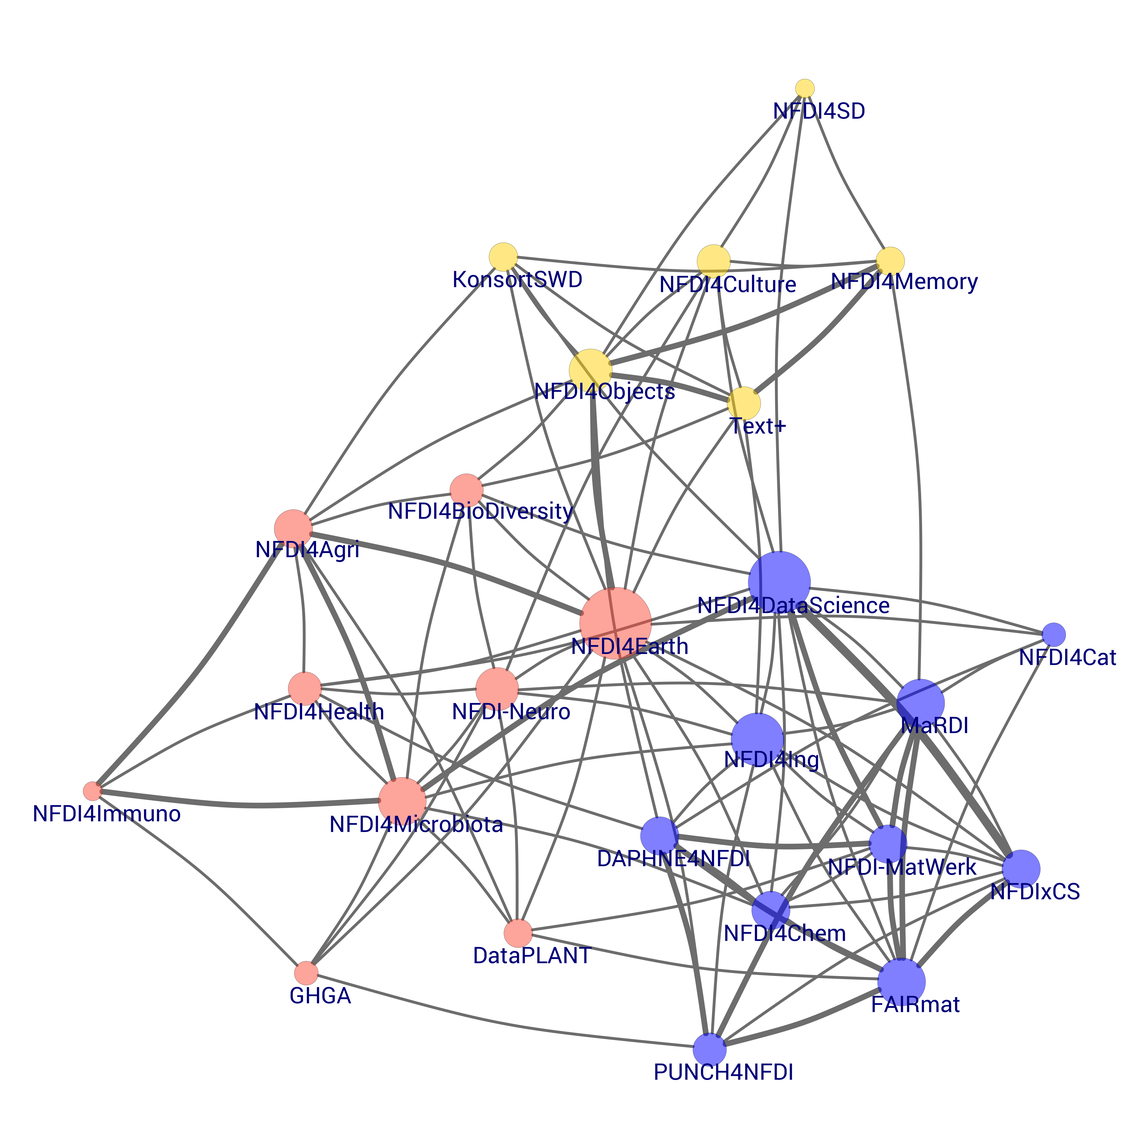
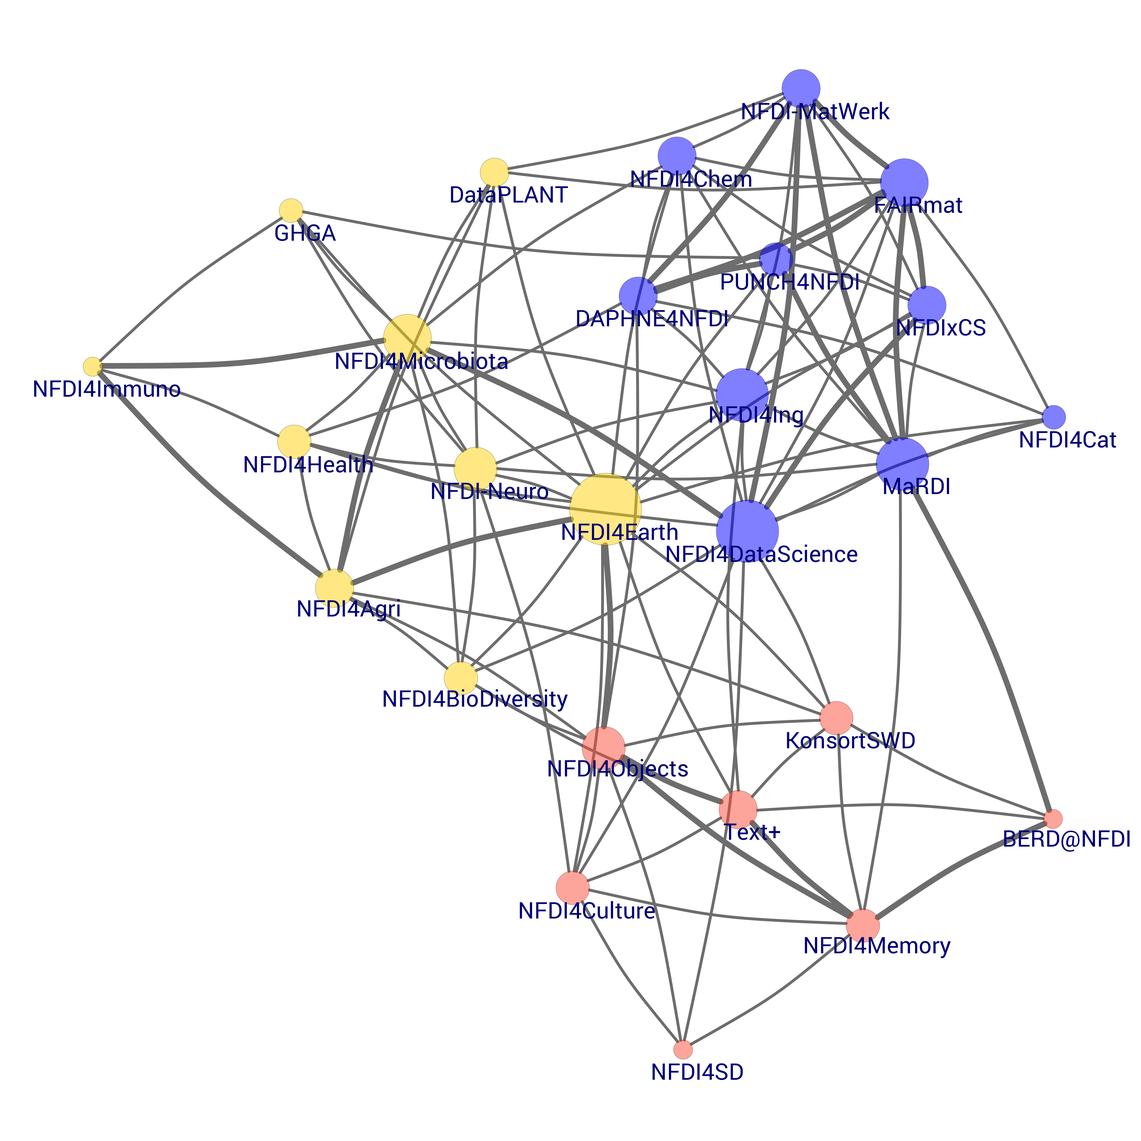
update files due to new consortia-data

diff --git a/2020/2020_nfdi_network_5.html b/2020/2020_nfdi_network_5.html
@@ -1211,11 +1211,11 @@ return function(){for(var n=0,e=0;e<t;++e)n+=Math.random();return n}},um=functio
 </head>
 <body style="background-color: white;">
 <div id="htmlwidget_container">
-<div id="htmlwidget-e8980251b4ee1bfbce5c" class="forceNetwork html-widget" style="width:960px;height:500px;">
+<div id="htmlwidget-466d62322b30683bf1b7" class="forceNetwork html-widget" style="width:960px;height:500px;">
 
 </div>
 </div>
-<script type="application/json" data-for="htmlwidget-e8980251b4ee1bfbce5c">{"x":{"links":{"source":[0,0,0,0,0,0,0,0,2,2,2,2,2,2,2,2,2,2,5,5,5,5,5,5,5,8,8,8,8,8,8,8,13,13,13,13,13,13,13,13,13,13,13,14,14,14,14,14,14,14,14,14,14,14,16,16,16,16,18,18,18,18,18,19,19,19,19,19,19,19,19,19,20,20,20,20,20,20,20,21,21,21,21,6,6,6,6,6,6,6,6,7,7,7,7,7,7,7,7,22,22,22,22,22,22,22,23,23,23,23,23,23,23,24,24,24,24,24,24,24],"target":[2,11,17,6,10,23,15,20,0,5,11,10,17,6,23,1,13,22,6,23,2,17,11,7,10,19,15,9,1,14,4,16,22,5,12,4,15,9,10,11,17,19,6,1,3,4,8,9,10,11,12,15,17,20,19,8,3,15,12,20,24,5,4,1,3,8,9,11,13,15,16,17,24,18,12,4,9,14,8,18,20,12,13,17,22,13,2,11,0,1,5,15,17,1,12,3,19,9,14,17,5,13,2,11,14,13,2,0,14,5,22,3,17,12,18,20,4,17,14,9],"value":[1,1,1,1,1,1,1,1,1,1,1,1,1,1,1,1,1,1,1,1,1,1,1,1,1,1,1,1,1,1,1,1,1,1,1,1,1,1,1,1,1,1,1,1,1,1,1,1,1,1,1,1,1,1,1,1,1,1,1,1,1,1,1,1,1,1,1,1,1,1,1,1,1,1,1,1,1,1,1,1,1,1,1,1,1,1,1,1,1,1,1,1,1,1,1,1,1,1,1,1,1,1,1,1,1,1,1,1,1,1,1,1,1,1,1,1,1,1,1,1],"colour":["#808080","#808080","#808080","#808080","#808080","#808080","#808080","#808080","#808080","#808080","#808080","#808080","#808080","#808080","#808080","#808080","#808080","#808080","#808080","#808080","#808080","#808080","#808080","#808080","#808080","#808080","#808080","#808080","#808080","#808080","#808080","#808080","#808080","#808080","#808080","#808080","#808080","#808080","#808080","#808080","#808080","#808080","#808080","#808080","#808080","#808080","#808080","#808080","#808080","#808080","#808080","#808080","#808080","#808080","#808080","#808080","#808080","#808080","#808080","#808080","#808080","#808080","#808080","#808080","#808080","#808080","#808080","#808080","#808080","#808080","#808080","#808080","#808080","#808080","#808080","#808080","#808080","#808080","#808080","#808080","#808080","#808080","#808080","#808080","#808080","#808080","#808080","#808080","#808080","#808080","#808080","#808080","#808080","#808080","#808080","#808080","#808080","#808080","#808080","#808080","#808080","#808080","#808080","#808080","#808080","#808080","#808080","#808080","#808080","#808080","#808080","#808080","#808080","#808080","#808080","#808080","#808080","#808080","#808080","#808080"]},"nodes":{"name":["DAPHNE4NFDI","DataPLANT","FAIRmat","GHGA","KonsortSWD","MaRDI","NFDI-MatWerk","NFDI-Neuro","NFDI4Agri","NFDI4BioDiversity","NFDI4Cat","NFDI4Chem","NFDI4Culture","NFDI4DataScience","NFDI4Earth","NFDI4Health","NFDI4Immuno","NFDI4Ing","NFDI4Memory","NFDI4Microbiota","NFDI4Objects","NFDI4SD","NFDIxCS","PUNCH4NFDI","Text+"],"group":[1,1,1,1,1,1,1,1,1,1,1,1,1,1,1,1,1,1,1,1,1,1,1,1,1],"nodesize":[8,8,8,8,8,8,8,8,8,8,8,8,8,8,8,8,8,8,8,8,8,8,8,8,8]},"options":{"NodeID":"name","Group":"group","colourScale":"d3.scaleOrdinal(['#435FAC'])","fontSize":7,"fontFamily":"Roboto","clickTextSize":17.5,"linkDistance":50,"linkWidth":"'1.5px'.toString()","charge":-300,"opacity":1,"zoom":true,"legend":false,"arrows":false,"nodesize":true,"radiusCalculation":"d.nodesize","bounded":false,"opacityNoHover":1,"clickAction":null}},"evals":[],"jsHooks":[]}</script>
-<script type="application/htmlwidget-sizing" data-for="htmlwidget-e8980251b4ee1bfbce5c">{"viewer":{"width":450,"height":350,"padding":10,"fill":true},"browser":{"width":960,"height":500,"padding":10,"fill":true}}</script>
+<script type="application/json" data-for="htmlwidget-466d62322b30683bf1b7">{"x":{"links":{"source":[1,1,1,1,1,1,1,1,3,3,3,3,3,3,3,3,3,3,6,6,6,6,6,6,6,9,9,9,9,9,9,9,14,14,14,14,14,14,14,14,14,14,14,15,15,15,15,15,15,15,15,15,15,15,17,17,17,17,19,19,19,19,19,20,20,20,20,20,20,20,20,20,21,21,21,21,21,21,21,22,22,22,22,7,7,7,7,7,7,7,7,8,8,8,8,8,8,8,8,23,23,23,23,23,23,24,24,24,24,24,24,24,25,25,25,25,25,25,25,0,0,0,0,6,19],"target":[3,12,18,7,11,24,16,21,1,6,12,11,18,7,24,2,14,23,7,24,3,18,12,8,11,20,16,10,2,15,5,17,23,6,13,5,16,10,11,12,18,20,7,2,4,5,9,10,11,12,13,16,18,21,20,9,4,16,13,21,25,6,5,2,4,9,10,12,14,16,17,18,25,19,13,5,10,15,9,19,21,13,14,18,23,14,3,12,1,2,6,16,18,2,13,4,20,10,15,18,6,14,3,12,15,3,1,15,6,23,4,18,13,19,21,5,18,15,10,5,19,6,25,0,0],"value":[1,1,1,1,1,1,1,1,1,1,1,1,1,1,1,1,1,1,1,1,1,1,1,1,1,1,1,1,1,1,1,1,1,1,1,1,1,1,1,1,1,1,1,1,1,1,1,1,1,1,1,1,1,1,1,1,1,1,1,1,1,1,1,1,1,1,1,1,1,1,1,1,1,1,1,1,1,1,1,1,1,1,1,1,1,1,1,1,1,1,1,1,1,1,1,1,1,1,1,1,1,1,1,1,1,1,1,1,1,1,1,1,1,1,1,1,1,1,1,1,1,1,1,1,1],"colour":["#808080","#808080","#808080","#808080","#808080","#808080","#808080","#808080","#808080","#808080","#808080","#808080","#808080","#808080","#808080","#808080","#808080","#808080","#808080","#808080","#808080","#808080","#808080","#808080","#808080","#808080","#808080","#808080","#808080","#808080","#808080","#808080","#808080","#808080","#808080","#808080","#808080","#808080","#808080","#808080","#808080","#808080","#808080","#808080","#808080","#808080","#808080","#808080","#808080","#808080","#808080","#808080","#808080","#808080","#808080","#808080","#808080","#808080","#808080","#808080","#808080","#808080","#808080","#808080","#808080","#808080","#808080","#808080","#808080","#808080","#808080","#808080","#808080","#808080","#808080","#808080","#808080","#808080","#808080","#808080","#808080","#808080","#808080","#808080","#808080","#808080","#808080","#808080","#808080","#808080","#808080","#808080","#808080","#808080","#808080","#808080","#808080","#808080","#808080","#808080","#808080","#808080","#808080","#808080","#808080","#808080","#808080","#808080","#808080","#808080","#808080","#808080","#808080","#808080","#808080","#808080","#808080","#808080","#808080","#808080","#808080","#808080","#808080","#808080","#808080"]},"nodes":{"name":["BERD@NFDI","DAPHNE4NFDI","DataPLANT","FAIRmat","GHGA","KonsortSWD","MaRDI","NFDI-MatWerk","NFDI-Neuro","NFDI4Agri","NFDI4BioDiversity","NFDI4Cat","NFDI4Chem","NFDI4Culture","NFDI4DataScience","NFDI4Earth","NFDI4Health","NFDI4Immuno","NFDI4Ing","NFDI4Memory","NFDI4Microbiota","NFDI4Objects","NFDI4SD","NFDIxCS","PUNCH4NFDI","Text+"],"group":[1,1,1,1,1,1,1,1,1,1,1,1,1,1,1,1,1,1,1,1,1,1,1,1,1,1],"nodesize":[8,8,8,8,8,8,8,8,8,8,8,8,8,8,8,8,8,8,8,8,8,8,8,8,8,8]},"options":{"NodeID":"name","Group":"group","colourScale":"d3.scaleOrdinal(['#435FAC'])","fontSize":7,"fontFamily":"Roboto","clickTextSize":17.5,"linkDistance":50,"linkWidth":"'1.5px'.toString()","charge":-300,"opacity":1,"zoom":true,"legend":false,"arrows":false,"nodesize":true,"radiusCalculation":"d.nodesize","bounded":false,"opacityNoHover":1,"clickAction":null}},"evals":[],"jsHooks":[]}</script>
+<script type="application/htmlwidget-sizing" data-for="htmlwidget-466d62322b30683bf1b7">{"viewer":{"width":450,"height":350,"padding":10,"fill":true},"browser":{"width":960,"height":500,"padding":10,"fill":true}}</script>
 </body>
 </html>

diff --git a/2019/2019_nfdi_network_5.html b/2019/2019_nfdi_network_5.html
@@ -1211,11 +1211,11 @@ return function(){for(var n=0,e=0;e<t;++e)n+=Math.random();return n}},um=functio
 </head>
 <body style="background-color: white;">
 <div id="htmlwidget_container">
-<div id="htmlwidget-cf02e40c0bc09d32bb5e" class="forceNetwork html-widget" style="width:960px;height:500px;">
+<div id="htmlwidget-e05259a22a001c4d9545" class="forceNetwork html-widget" style="width:960px;height:500px;">
 
 </div>
 </div>
-<script type="application/json" data-for="htmlwidget-cf02e40c0bc09d32bb5e">{"x":{"links":{"source":[0,0,0,1,1,1,2,2,2,2,2,2,2,3,3,3,4,4,4,4,4,4,5,5,5,5,5,6,6,7,7,7,7,7,8,8,8,8,8,8,9,9,9,9,9,10,10,10,10,10,10,10,10,11,11,11,11,12,12,12,12,12,12,12,13,13,13,14,14,14,15,15,15,15,15,16,16,16,16,16,16,16,17,17,17,17,17,17,17,17,17,18,18,18,18,18,18,18,19,19,19,20,20,20,20,20,22,22,22,22,22],"target":[21,2,15,7,5,22,4,12,17,20,11,21,0,10,9,12,2,8,12,11,17,20,18,7,1,14,22,18,16,1,10,15,16,22,20,21,4,17,12,14,16,3,10,7,15,15,9,12,16,7,13,3,18,4,12,17,2,4,17,11,2,21,16,10,10,18,22,22,8,17,0,7,9,10,17,18,6,7,12,9,15,10,20,4,19,12,15,8,18,22,14,6,16,17,13,5,7,9,17,5,15,4,17,8,12,2,14,7,17,15,10],"value":[1,1,1,1,1,1,1,1,1,1,1,1,1,1,1,1,1,1,1,1,1,1,1,1,1,1,1,1,1,1,1,1,1,1,1,1,1,1,1,1,1,1,1,1,1,1,1,1,1,1,1,1,1,1,1,1,1,1,1,1,1,1,1,1,1,1,1,1,1,1,1,1,1,1,1,1,1,1,1,1,1,1,1,1,1,1,1,1,1,1,1,1,1,1,1,1,1,1,1,1,1,1,1,1,1,1,1,1,1,1,1],"colour":["#808080","#808080","#808080","#808080","#808080","#808080","#808080","#808080","#808080","#808080","#808080","#808080","#808080","#808080","#808080","#808080","#808080","#808080","#808080","#808080","#808080","#808080","#808080","#808080","#808080","#808080","#808080","#808080","#808080","#808080","#808080","#808080","#808080","#808080","#808080","#808080","#808080","#808080","#808080","#808080","#808080","#808080","#808080","#808080","#808080","#808080","#808080","#808080","#808080","#808080","#808080","#808080","#808080","#808080","#808080","#808080","#808080","#808080","#808080","#808080","#808080","#808080","#808080","#808080","#808080","#808080","#808080","#808080","#808080","#808080","#808080","#808080","#808080","#808080","#808080","#808080","#808080","#808080","#808080","#808080","#808080","#808080","#808080","#808080","#808080","#808080","#808080","#808080","#808080","#808080","#808080","#808080","#808080","#808080","#808080","#808080","#808080","#808080","#808080","#808080","#808080","#808080","#808080","#808080","#808080","#808080","#808080","#808080","#808080","#808080","#808080"]},"nodes":{"name":["Astro-NFDI","BERD@NFDI","DAPHNE","DataPLANT","FAIRmat","ForumX","GHGA","KonsortSWD","MaRDI","NFDI4Agri","NFDI4BioDiversity","NFDI4cat","NFDI4Chem","NFDI4Crime","NFDI4Culture","NFDI4Earth","NFDI4Health","NFDI4Ing","NFDI4Medicine","NFDI4MobilTech","NFDI4MSE","PAHN-PaN","Text+"],"group":[1,1,1,1,1,1,1,1,1,1,1,1,1,1,1,1,1,1,1,1,1,1,1],"nodesize":[8,8,8,8,8,8,8,8,8,8,8,8,8,8,8,8,8,8,8,8,8,8,8]},"options":{"NodeID":"name","Group":"group","colourScale":"d3.scaleOrdinal(['#435FAC'])","fontSize":7,"fontFamily":"Roboto","clickTextSize":17.5,"linkDistance":50,"linkWidth":"'1.5px'.toString()","charge":-300,"opacity":1,"zoom":true,"legend":false,"arrows":false,"nodesize":true,"radiusCalculation":"d.nodesize","bounded":false,"opacityNoHover":1,"clickAction":null}},"evals":[],"jsHooks":[]}</script>
-<script type="application/htmlwidget-sizing" data-for="htmlwidget-cf02e40c0bc09d32bb5e">{"viewer":{"width":450,"height":350,"padding":10,"fill":true},"browser":{"width":960,"height":500,"padding":10,"fill":true}}</script>
+<script type="application/json" data-for="htmlwidget-e05259a22a001c4d9545">{"x":{"links":{"source":[0,0,0,1,1,1,2,2,2,2,2,2,2,3,3,3,4,4,4,4,4,4,5,5,5,5,5,6,6,7,7,7,7,7,8,8,8,8,8,8,9,9,9,9,9,10,10,10,10,10,10,10,10,11,11,11,11,12,12,12,12,12,12,12,13,13,13,14,14,14,15,15,15,15,15,16,16,16,16,16,16,16,17,17,17,17,17,17,17,17,17,18,18,18,18,18,18,18,19,19,19,20,20,20,20,20,22,22,22,22,22],"target":[21,2,15,7,5,22,4,12,17,20,11,21,0,10,9,12,2,8,12,11,17,20,18,7,1,14,22,18,16,1,10,15,16,22,20,21,4,17,12,14,16,3,10,7,15,15,9,12,16,7,13,3,18,4,12,17,2,4,17,11,2,21,16,10,10,18,22,22,8,17,0,7,9,10,17,18,6,7,12,9,15,10,20,4,19,12,15,8,18,22,14,6,16,17,13,5,7,9,17,5,15,4,17,8,12,2,14,7,17,15,10],"value":[1,1,1,1,1,1,1,1,1,1,1,1,1,1,1,1,1,1,1,1,1,1,1,1,1,1,1,1,1,1,1,1,1,1,1,1,1,1,1,1,1,1,1,1,1,1,1,1,1,1,1,1,1,1,1,1,1,1,1,1,1,1,1,1,1,1,1,1,1,1,1,1,1,1,1,1,1,1,1,1,1,1,1,1,1,1,1,1,1,1,1,1,1,1,1,1,1,1,1,1,1,1,1,1,1,1,1,1,1,1,1],"colour":["#808080","#808080","#808080","#808080","#808080","#808080","#808080","#808080","#808080","#808080","#808080","#808080","#808080","#808080","#808080","#808080","#808080","#808080","#808080","#808080","#808080","#808080","#808080","#808080","#808080","#808080","#808080","#808080","#808080","#808080","#808080","#808080","#808080","#808080","#808080","#808080","#808080","#808080","#808080","#808080","#808080","#808080","#808080","#808080","#808080","#808080","#808080","#808080","#808080","#808080","#808080","#808080","#808080","#808080","#808080","#808080","#808080","#808080","#808080","#808080","#808080","#808080","#808080","#808080","#808080","#808080","#808080","#808080","#808080","#808080","#808080","#808080","#808080","#808080","#808080","#808080","#808080","#808080","#808080","#808080","#808080","#808080","#808080","#808080","#808080","#808080","#808080","#808080","#808080","#808080","#808080","#808080","#808080","#808080","#808080","#808080","#808080","#808080","#808080","#808080","#808080","#808080","#808080","#808080","#808080","#808080","#808080","#808080","#808080","#808080","#808080"]},"nodes":{"name":["Astro-NFDI","BERD@NFDI","DAPHNE","DataPLANT","FAIRmat","ForumX","GHGA","KonsortSWD","MaRDI","NFDI4Agri","NFDI4BioDiversity","NFDI4cat","NFDI4Chem","NFDI4Crime","NFDI4Culture","NFDI4Earth","NFDI4Health","NFDI4Ing","NFDI4Medicine","NFDI4MobilTech","NFDI4MSE","PAHN-PaN","Text+"],"group":[1,1,1,1,1,1,1,1,1,1,1,1,1,1,1,1,1,1,1,1,1,1,1],"nodesize":[8,8,8,8,8,8,8,8,8,8,8,8,8,8,8,8,8,8,8,8,8,8,8]},"options":{"NodeID":"name","Group":"group","colourScale":"d3.scaleOrdinal(['#435FAC'])","fontSize":7,"fontFamily":"Roboto","clickTextSize":17.5,"linkDistance":50,"linkWidth":"'1.5px'.toString()","charge":-300,"opacity":1,"zoom":true,"legend":false,"arrows":false,"nodesize":true,"radiusCalculation":"d.nodesize","bounded":false,"opacityNoHover":1,"clickAction":null}},"evals":[],"jsHooks":[]}</script>
+<script type="application/htmlwidget-sizing" data-for="htmlwidget-e05259a22a001c4d9545">{"viewer":{"width":450,"height":350,"padding":10,"fill":true},"browser":{"width":960,"height":500,"padding":10,"fill":true}}</script>
 </body>
 </html>

diff --git a/2020/2020_nfdi_network_4.html b/2020/2020_nfdi_network_4.html
@@ -1624,11 +1624,11 @@ pointer-events: none;
 </head>
 <body style="background-color: white;">
 <div id="htmlwidget_container">
-<div id="htmlwidget-a42e37c5f68f09c6fec8" class="chorddiag html-widget" style="width:960px;height:500px;">
+<div id="htmlwidget-1b73e8243cad70c255e2" class="chorddiag html-widget" style="width:960px;height:500px;">
 
 </div>
 </div>
-<script type="application/json" data-for="htmlwidget-a42e37c5f68f09c6fec8">{"x":{"matrix":[[0,2,0,0,0,0,0,0,0,1,0,2,0,0,2,0,1,1,1,1,0,0,0,0,0],[2,0,2,0,1,0,0,0,0,0,0,2,0,2,2,0,1,1,1,0,1,0,0,0,0],[0,2,0,0,1,0,0,1,0,0,0,2,1,1,2,0,1,1,1,0,0,0,0,0,0],[0,0,0,0,0,2,2,0,2,1,0,0,0,0,0,0,0,0,0,1,1,1,1,0,0],[0,1,1,0,0,0,0,0,2,0,1,2,0,3,0,0,1,1,1,1,0,1,1,1,0],[0,0,0,2,0,0,0,0,0,2,0,0,1,1,1,1,1,1,1,1,1,1,1,1,1],[0,0,0,2,0,0,0,0,2,0,0,0,0,0,0,0,0,0,0,1,0,0,0,0,1],[0,0,1,0,0,0,0,0,0,2,1,0,0,0,0,2,0,0,0,0,0,0,1,1,0],[0,0,0,2,2,0,2,0,0,0,0,0,1,0,0,0,1,1,0,1,1,1,0,0,1],[1,0,0,1,0,2,0,2,0,0,1,0,0,0,0,2,0,0,0,0,0,1,1,1,0],[0,0,0,0,1,0,0,1,0,1,0,0,0,0,0,0,0,0,0,0,0,0,0,1,0],[2,2,2,0,2,0,0,0,0,0,0,0,0,1,0,0,1,1,0,0,1,0,0,0,0],[0,0,1,0,0,1,0,0,1,0,0,0,0,0,0,0,0,1,0,1,1,1,0,1,1],[0,2,1,0,3,1,0,0,0,0,0,1,0,0,1,0,1,1,0,0,0,0,0,0,0],[2,2,2,0,0,1,0,0,0,0,0,0,0,1,0,0,0,1,0,0,0,0,0,0,1],[0,0,0,0,0,1,0,2,0,2,0,0,0,0,0,0,0,1,0,0,0,1,1,1,0],[1,1,1,0,1,1,0,0,1,0,0,1,0,1,0,0,0,0,0,0,0,0,0,0,0],[1,1,1,0,1,1,0,0,1,0,0,1,1,1,1,1,0,0,0,0,0,0,0,0,0],[1,1,1,0,1,1,0,0,0,0,0,0,0,0,0,0,0,0,0,0,0,0,0,0,0],[1,0,0,1,1,1,1,0,1,0,0,0,1,0,0,0,0,0,0,0,0,0,0,0,0],[0,1,0,1,0,1,0,0,1,0,0,1,1,0,0,0,0,0,0,0,0,0,0,0,0],[0,0,0,1,1,1,0,0,1,1,0,0,1,0,0,1,0,0,0,0,0,0,0,0,0],[0,0,0,1,1,1,0,1,0,1,0,0,0,0,0,1,0,0,0,0,0,0,0,0,0],[0,0,0,0,1,1,0,1,0,1,1,0,1,0,0,1,0,0,0,0,0,0,0,0,0],[0,0,0,0,0,1,1,0,1,0,0,0,1,0,1,0,0,0,0,0,0,0,0,0,0]],"options":{"type":"directional","width":null,"height":null,"margin":120,"showGroupnames":true,"groupNames":["DAPHNE4NFDI","FAIRmat","MaRDI","NFDI4Agri","NFDI4DataScience","NFDI4Earth","NFDI4Immuno","NFDI4Memory","NFDI4Microbiota","NFDI4Objects","NFDI4SD","NFDI-MatWerk","NFDI-Neuro","NFDIxCS","PUNCH4NFDI","Text+","NFDI4Chem","NFDI4Ing","NFDI4Cat","NFDI4Health","DataPLANT","NFDI4BioDiversity","KonsortSWD","NFDI4Culture","GHGA"],"groupColors":["#435FAC","#AEC3FD"],"groupThickness":0.1,"groupPadding":0.0174532925199433,"groupnamePadding":[20,20,20,20,20,20,20,20,20,20,20,20,20,20,20,20,20,20,20,20,20,20,20,20,20],"groupnameFontsize":18,"groupedgeColor":null,"chordedgeColor":"#808080","categoryNames":null,"categorynamePadding":100,"categorynameFontsize":18,"showTicks":false,"tickInterval":1,"ticklabelFontsize":10,"fadeLevel":0.1,"showTooltips":true,"showZeroTooltips":true,"tooltipNames":["DAPHNE4NFDI","FAIRmat","MaRDI","NFDI4Agri","NFDI4DataScience","NFDI4Earth","NFDI4Immuno","NFDI4Memory","NFDI4Microbiota","NFDI4Objects","NFDI4SD","NFDI-MatWerk","NFDI-Neuro","NFDIxCS","PUNCH4NFDI","Text+","NFDI4Chem","NFDI4Ing","NFDI4Cat","NFDI4Health","DataPLANT","NFDI4BioDiversity","KonsortSWD","NFDI4Culture","GHGA"],"tooltipFontsize":20,"tooltipUnit":"","tooltipGroupConnector":" <> ","precision":2,"clickAction":null,"clickGroupAction":null}},"evals":[],"jsHooks":[]}</script>
-<script type="application/htmlwidget-sizing" data-for="htmlwidget-a42e37c5f68f09c6fec8">{"viewer":{"width":450,"height":350,"padding":0,"fill":true},"browser":{"width":960,"height":500,"padding":0,"fill":true}}</script>
+<script type="application/json" data-for="htmlwidget-1b73e8243cad70c255e2">{"x":{"matrix":[[0,2,0,0,0,0,0,0,0,1,0,2,0,0,2,0,0,1,1,1,1,0,0,0,0,0],[2,0,2,0,1,0,0,0,0,0,0,2,0,2,2,0,0,1,1,1,0,1,0,0,0,0],[0,2,0,0,1,0,0,1,0,0,0,2,1,1,2,0,2,1,1,1,0,0,0,0,0,0],[0,0,0,0,0,2,2,0,2,1,0,0,0,0,0,0,0,0,0,0,1,1,1,1,0,0],[0,1,1,0,0,0,0,0,2,0,1,2,0,2,0,0,0,1,1,1,1,0,1,1,1,0],[0,0,0,2,0,0,0,0,0,2,0,0,1,1,1,1,0,1,1,1,1,1,1,1,1,1],[0,0,0,2,0,0,0,0,2,0,0,0,0,0,0,0,0,0,0,0,1,0,0,0,0,1],[0,0,1,0,0,0,0,0,0,2,1,0,0,0,0,2,2,0,0,0,0,0,0,1,1,0],[0,0,0,2,2,0,2,0,0,0,0,0,1,0,0,0,0,1,1,0,1,1,1,0,0,1],[1,0,0,1,0,2,0,2,0,0,1,0,0,0,0,2,0,0,0,0,0,0,1,1,1,0],[0,0,0,0,1,0,0,1,0,1,0,0,0,0,0,0,0,0,0,0,0,0,0,0,1,0],[2,2,2,0,2,0,0,0,0,0,0,0,0,1,0,0,0,1,1,0,0,1,0,0,0,0],[0,0,1,0,0,1,0,0,1,0,0,0,0,0,0,0,0,0,1,0,1,1,1,0,1,1],[0,2,1,0,2,1,0,0,0,0,0,1,0,0,1,0,0,1,1,0,0,0,0,0,0,0],[2,2,2,0,0,1,0,0,0,0,0,0,0,1,0,0,0,0,1,0,0,0,0,0,0,1],[0,0,0,0,0,1,0,2,0,2,0,0,0,0,0,0,1,0,1,0,0,0,1,1,1,0],[0,0,2,0,0,0,0,2,0,0,0,0,0,0,0,1,0,0,0,0,0,0,0,1,0,0],[1,1,1,0,1,1,0,0,1,0,0,1,0,1,0,0,0,0,0,0,0,0,0,0,0,0],[1,1,1,0,1,1,0,0,1,0,0,1,1,1,1,1,0,0,0,0,0,0,0,0,0,0],[1,1,1,0,1,1,0,0,0,0,0,0,0,0,0,0,0,0,0,0,0,0,0,0,0,0],[1,0,0,1,1,1,1,0,1,0,0,0,1,0,0,0,0,0,0,0,0,0,0,0,0,0],[0,1,0,1,0,1,0,0,1,0,0,1,1,0,0,0,0,0,0,0,0,0,0,0,0,0],[0,0,0,1,1,1,0,0,1,1,0,0,1,0,0,1,0,0,0,0,0,0,0,0,0,0],[0,0,0,1,1,1,0,1,0,1,0,0,0,0,0,1,1,0,0,0,0,0,0,0,0,0],[0,0,0,0,1,1,0,1,0,1,1,0,1,0,0,1,0,0,0,0,0,0,0,0,0,0],[0,0,0,0,0,1,1,0,1,0,0,0,1,0,1,0,0,0,0,0,0,0,0,0,0,0]],"options":{"type":"directional","width":null,"height":null,"margin":120,"showGroupnames":true,"groupNames":["DAPHNE4NFDI","FAIRmat","MaRDI","NFDI4Agri","NFDI4DataScience","NFDI4Earth","NFDI4Immuno","NFDI4Memory","NFDI4Microbiota","NFDI4Objects","NFDI4SD","NFDI-MatWerk","NFDI-Neuro","NFDIxCS","PUNCH4NFDI","Text+","BERD@NFDI","NFDI4Chem","NFDI4Ing","NFDI4Cat","NFDI4Health","DataPLANT","NFDI4BioDiversity","KonsortSWD","NFDI4Culture","GHGA"],"groupColors":["#435FAC","#AEC3FD"],"groupThickness":0.1,"groupPadding":0.0174532925199433,"groupnamePadding":[20,20,20,20,20,20,20,20,20,20,20,20,20,20,20,20,20,20,20,20,20,20,20,20,20,20],"groupnameFontsize":18,"groupedgeColor":null,"chordedgeColor":"#808080","categoryNames":null,"categorynamePadding":100,"categorynameFontsize":18,"showTicks":false,"tickInterval":1,"ticklabelFontsize":10,"fadeLevel":0.1,"showTooltips":true,"showZeroTooltips":true,"tooltipNames":["DAPHNE4NFDI","FAIRmat","MaRDI","NFDI4Agri","NFDI4DataScience","NFDI4Earth","NFDI4Immuno","NFDI4Memory","NFDI4Microbiota","NFDI4Objects","NFDI4SD","NFDI-MatWerk","NFDI-Neuro","NFDIxCS","PUNCH4NFDI","Text+","BERD@NFDI","NFDI4Chem","NFDI4Ing","NFDI4Cat","NFDI4Health","DataPLANT","NFDI4BioDiversity","KonsortSWD","NFDI4Culture","GHGA"],"tooltipFontsize":20,"tooltipUnit":"","tooltipGroupConnector":" <> ","precision":2,"clickAction":null,"clickGroupAction":null}},"evals":[],"jsHooks":[]}</script>
+<script type="application/htmlwidget-sizing" data-for="htmlwidget-1b73e8243cad70c255e2">{"viewer":{"width":450,"height":350,"padding":0,"fill":true},"browser":{"width":960,"height":500,"padding":0,"fill":true}}</script>
 </body>
 </html>

diff --git a/2019/2019_nfdi_network_4.html b/2019/2019_nfdi_network_4.html
@@ -1624,11 +1624,11 @@ pointer-events: none;
 </head>
 <body style="background-color: white;">
 <div id="htmlwidget_container">
-<div id="htmlwidget-3c730090a01b019e877e" class="chorddiag html-widget" style="width:960px;height:500px;">
+<div id="htmlwidget-2ff4cbfe2617b4dbd527" class="chorddiag html-widget" style="width:960px;height:500px;">
 
 </div>
 </div>
-<script type="application/json" data-for="htmlwidget-3c730090a01b019e877e">{"x":{"matrix":[[0,0,2,0,0,0,0,0,0,0,0,0,0,0,0,2,0,0,0,0,0,0,1],[0,0,0,0,0,2,0,2,0,0,0,0,0,0,0,0,0,0,0,0,0,1,0],[2,0,0,0,2,0,0,0,0,0,0,2,2,0,0,0,0,1,0,0,2,0,1],[0,0,0,0,0,0,0,0,0,2,2,0,1,0,0,0,0,0,0,0,0,0,0],[0,0,2,0,0,0,0,0,2,0,0,2,2,0,0,0,0,2,0,0,2,0,0],[0,2,0,0,0,0,0,1,0,0,0,0,0,0,1,0,0,0,2,1,0,1,0],[0,0,0,0,0,0,0,0,0,0,0,0,0,0,0,0,2,0,2,0,0,0,0],[0,2,0,0,0,1,0,0,0,1,2,0,0,0,0,2,2,0,1,0,0,2,0],[0,0,0,0,2,0,0,0,0,0,0,0,1,0,2,0,0,2,0,0,2,0,1],[0,0,0,2,0,0,0,1,0,0,2,0,0,0,0,2,2,0,1,0,0,0,0],[0,0,0,2,0,0,0,2,0,2,0,0,2,2,0,2,2,0,1,0,0,1,0],[0,0,2,0,2,0,0,0,0,0,0,0,2,0,0,0,0,1,0,0,0,0,0],[0,0,2,1,2,0,0,0,1,0,2,2,0,0,0,0,2,2,0,0,1,0,1],[0,0,0,0,0,0,0,0,0,0,2,0,0,0,0,0,0,0,2,0,0,1,0],[0,0,0,0,0,1,0,0,2,0,0,0,0,0,0,0,0,2,0,0,0,2,0],[2,0,0,0,0,0,0,2,0,2,2,0,0,0,0,0,1,2,0,1,0,1,0],[0,0,0,0,0,0,2,2,0,2,2,0,2,0,0,1,0,0,2,0,0,0,0],[0,0,1,0,2,0,0,0,2,0,0,1,2,0,2,2,0,0,2,2,2,2,0],[0,0,0,0,0,2,2,1,0,1,1,0,0,2,0,0,2,2,0,0,0,0,0],[0,0,0,0,0,1,0,0,0,0,0,0,0,0,0,1,0,2,0,0,0,0,0],[0,0,2,0,2,0,0,0,2,0,0,0,1,0,0,0,0,2,0,0,0,0,0],[0,1,0,0,0,1,0,2,0,0,1,0,0,1,2,1,0,2,0,0,0,0,0],[1,0,1,0,0,0,0,0,1,0,0,0,1,0,0,0,0,0,0,0,0,0,0]],"options":{"type":"directional","width":null,"height":null,"margin":120,"showGroupnames":true,"groupNames":["Astro-NFDI","BERD@NFDI","DAPHNE","DataPLANT","FAIRmat","ForumX","GHGA","KonsortSWD","MaRDI","NFDI4Agri","NFDI4BioDiversity","NFDI4cat","NFDI4Chem","NFDI4Crime","NFDI4Culture","NFDI4Earth","NFDI4Health","NFDI4Ing","NFDI4Medicine","NFDI4MobilTech","NFDI4MSE","Text+","PAHN-PaN"],"groupColors":["#435FAC","#AEC3FD"],"groupThickness":0.1,"groupPadding":0.0174532925199433,"groupnamePadding":[20,20,20,20,20,20,20,20,20,20,20,20,20,20,20,20,20,20,20,20,20,20,20],"groupnameFontsize":18,"groupedgeColor":null,"chordedgeColor":"#808080","categoryNames":null,"categorynamePadding":100,"categorynameFontsize":18,"showTicks":false,"tickInterval":1,"ticklabelFontsize":10,"fadeLevel":0.1,"showTooltips":true,"showZeroTooltips":true,"tooltipNames":["Astro-NFDI","BERD@NFDI","DAPHNE","DataPLANT","FAIRmat","ForumX","GHGA","KonsortSWD","MaRDI","NFDI4Agri","NFDI4BioDiversity","NFDI4cat","NFDI4Chem","NFDI4Crime","NFDI4Culture","NFDI4Earth","NFDI4Health","NFDI4Ing","NFDI4Medicine","NFDI4MobilTech","NFDI4MSE","Text+","PAHN-PaN"],"tooltipFontsize":20,"tooltipUnit":"","tooltipGroupConnector":" <> ","precision":2,"clickAction":null,"clickGroupAction":null}},"evals":[],"jsHooks":[]}</script>
-<script type="application/htmlwidget-sizing" data-for="htmlwidget-3c730090a01b019e877e">{"viewer":{"width":450,"height":350,"padding":0,"fill":true},"browser":{"width":960,"height":500,"padding":0,"fill":true}}</script>
+<script type="application/json" data-for="htmlwidget-2ff4cbfe2617b4dbd527">{"x":{"matrix":[[0,0,2,0,0,0,0,0,0,0,0,0,0,0,0,2,0,0,0,0,0,0,1],[0,0,0,0,0,2,0,2,0,0,0,0,0,0,0,0,0,0,0,0,0,1,0],[2,0,0,0,2,0,0,0,0,0,0,2,2,0,0,0,0,1,0,0,2,0,1],[0,0,0,0,0,0,0,0,0,2,2,0,1,0,0,0,0,0,0,0,0,0,0],[0,0,2,0,0,0,0,0,2,0,0,2,2,0,0,0,0,2,0,0,2,0,0],[0,2,0,0,0,0,0,1,0,0,0,0,0,0,1,0,0,0,2,1,0,1,0],[0,0,0,0,0,0,0,0,0,0,0,0,0,0,0,0,2,0,2,0,0,0,0],[0,2,0,0,0,1,0,0,0,1,2,0,0,0,0,2,2,0,1,0,0,2,0],[0,0,0,0,2,0,0,0,0,0,0,0,1,0,2,0,0,2,0,0,2,0,1],[0,0,0,2,0,0,0,1,0,0,2,0,0,0,0,2,2,0,1,0,0,0,0],[0,0,0,2,0,0,0,2,0,2,0,0,2,2,0,2,2,0,1,0,0,1,0],[0,0,2,0,2,0,0,0,0,0,0,0,2,0,0,0,0,1,0,0,0,0,0],[0,0,2,1,2,0,0,0,1,0,2,2,0,0,0,0,2,2,0,0,1,0,1],[0,0,0,0,0,0,0,0,0,0,2,0,0,0,0,0,0,0,2,0,0,1,0],[0,0,0,0,0,1,0,0,2,0,0,0,0,0,0,0,0,2,0,0,0,2,0],[2,0,0,0,0,0,0,2,0,2,2,0,0,0,0,0,1,2,0,1,0,1,0],[0,0,0,0,0,0,2,2,0,2,2,0,2,0,0,1,0,0,2,0,0,0,0],[0,0,1,0,2,0,0,0,2,0,0,1,2,0,2,2,0,0,2,2,2,2,0],[0,0,0,0,0,2,2,1,0,1,1,0,0,2,0,0,2,2,0,0,0,0,0],[0,0,0,0,0,1,0,0,0,0,0,0,0,0,0,1,0,2,0,0,0,0,0],[0,0,2,0,2,0,0,0,2,0,0,0,1,0,0,0,0,2,0,0,0,0,0],[0,1,0,0,0,1,0,2,0,0,1,0,0,1,2,1,0,2,0,0,0,0,0],[1,0,1,0,0,0,0,0,1,0,0,0,1,0,0,0,0,0,0,0,0,0,0]],"options":{"type":"directional","width":null,"height":null,"margin":120,"showGroupnames":true,"groupNames":["Astro-NFDI","BERD@NFDI","DAPHNE","DataPLANT","FAIRmat","ForumX","GHGA","KonsortSWD","MaRDI","NFDI4Agri","NFDI4BioDiversity","NFDI4cat","NFDI4Chem","NFDI4Crime","NFDI4Culture","NFDI4Earth","NFDI4Health","NFDI4Ing","NFDI4Medicine","NFDI4MobilTech","NFDI4MSE","Text+","PAHN-PaN"],"groupColors":["#435FAC","#AEC3FD"],"groupThickness":0.1,"groupPadding":0.0174532925199433,"groupnamePadding":[20,20,20,20,20,20,20,20,20,20,20,20,20,20,20,20,20,20,20,20,20,20,20],"groupnameFontsize":18,"groupedgeColor":null,"chordedgeColor":"#808080","categoryNames":null,"categorynamePadding":100,"categorynameFontsize":18,"showTicks":false,"tickInterval":1,"ticklabelFontsize":10,"fadeLevel":0.1,"showTooltips":true,"showZeroTooltips":true,"tooltipNames":["Astro-NFDI","BERD@NFDI","DAPHNE","DataPLANT","FAIRmat","ForumX","GHGA","KonsortSWD","MaRDI","NFDI4Agri","NFDI4BioDiversity","NFDI4cat","NFDI4Chem","NFDI4Crime","NFDI4Culture","NFDI4Earth","NFDI4Health","NFDI4Ing","NFDI4Medicine","NFDI4MobilTech","NFDI4MSE","Text+","PAHN-PaN"],"tooltipFontsize":20,"tooltipUnit":"","tooltipGroupConnector":" <> ","precision":2,"clickAction":null,"clickGroupAction":null}},"evals":[],"jsHooks":[]}</script>
+<script type="application/htmlwidget-sizing" data-for="htmlwidget-2ff4cbfe2617b4dbd527">{"viewer":{"width":450,"height":350,"padding":0,"fill":true},"browser":{"width":960,"height":500,"padding":0,"fill":true}}</script>
 </body>
 </html>
